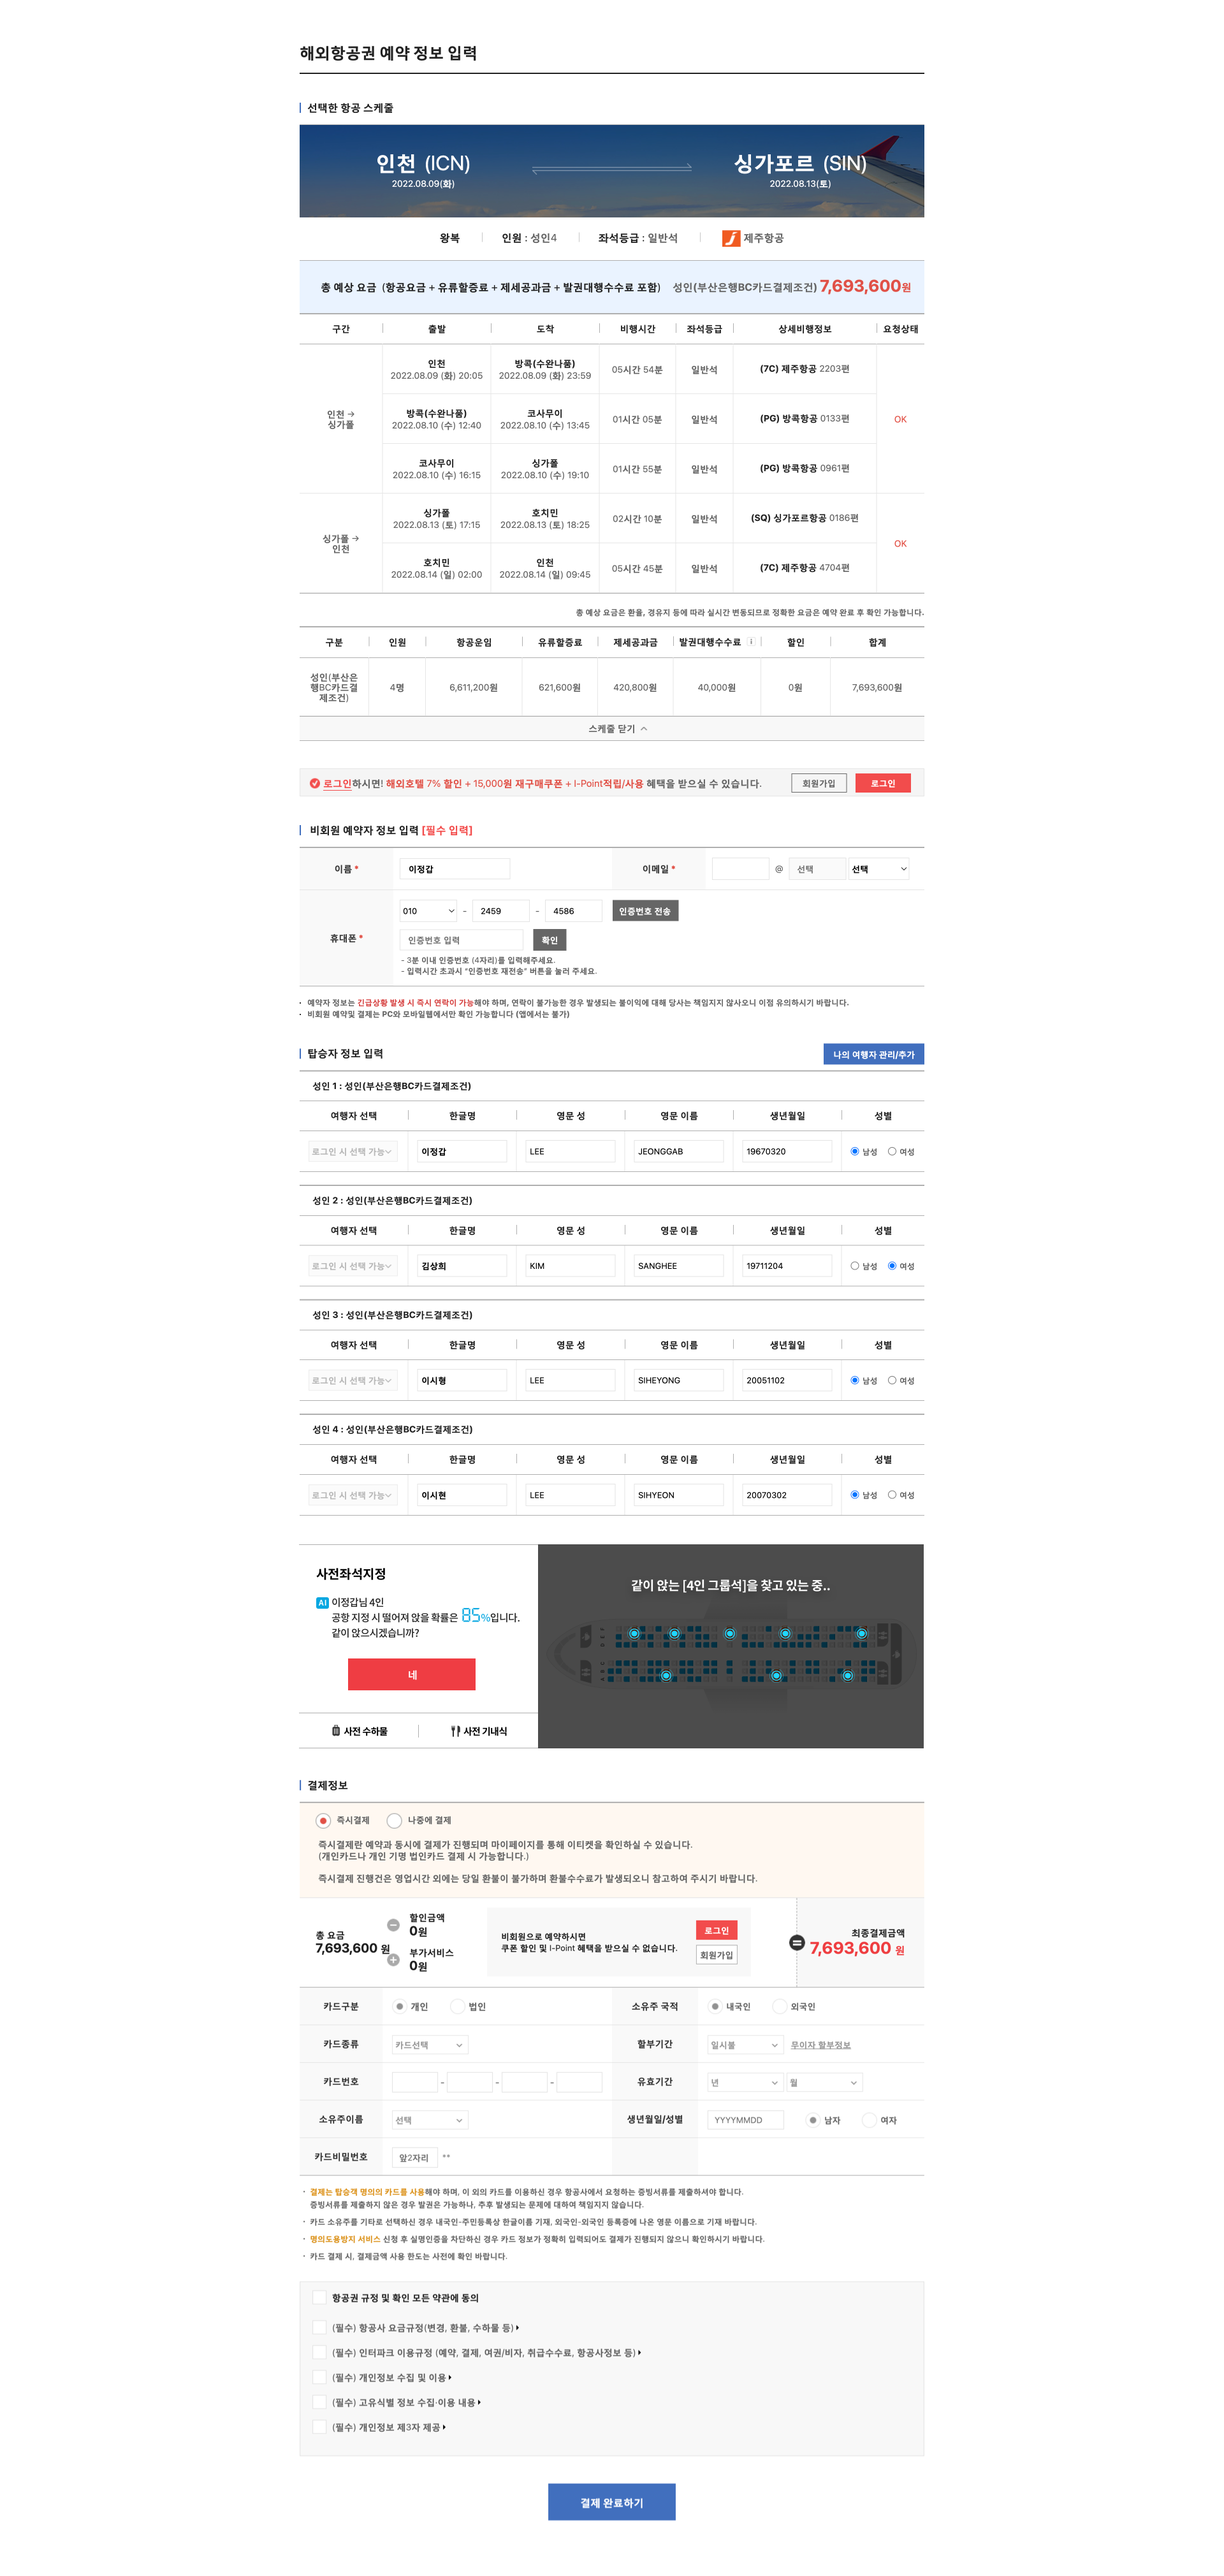
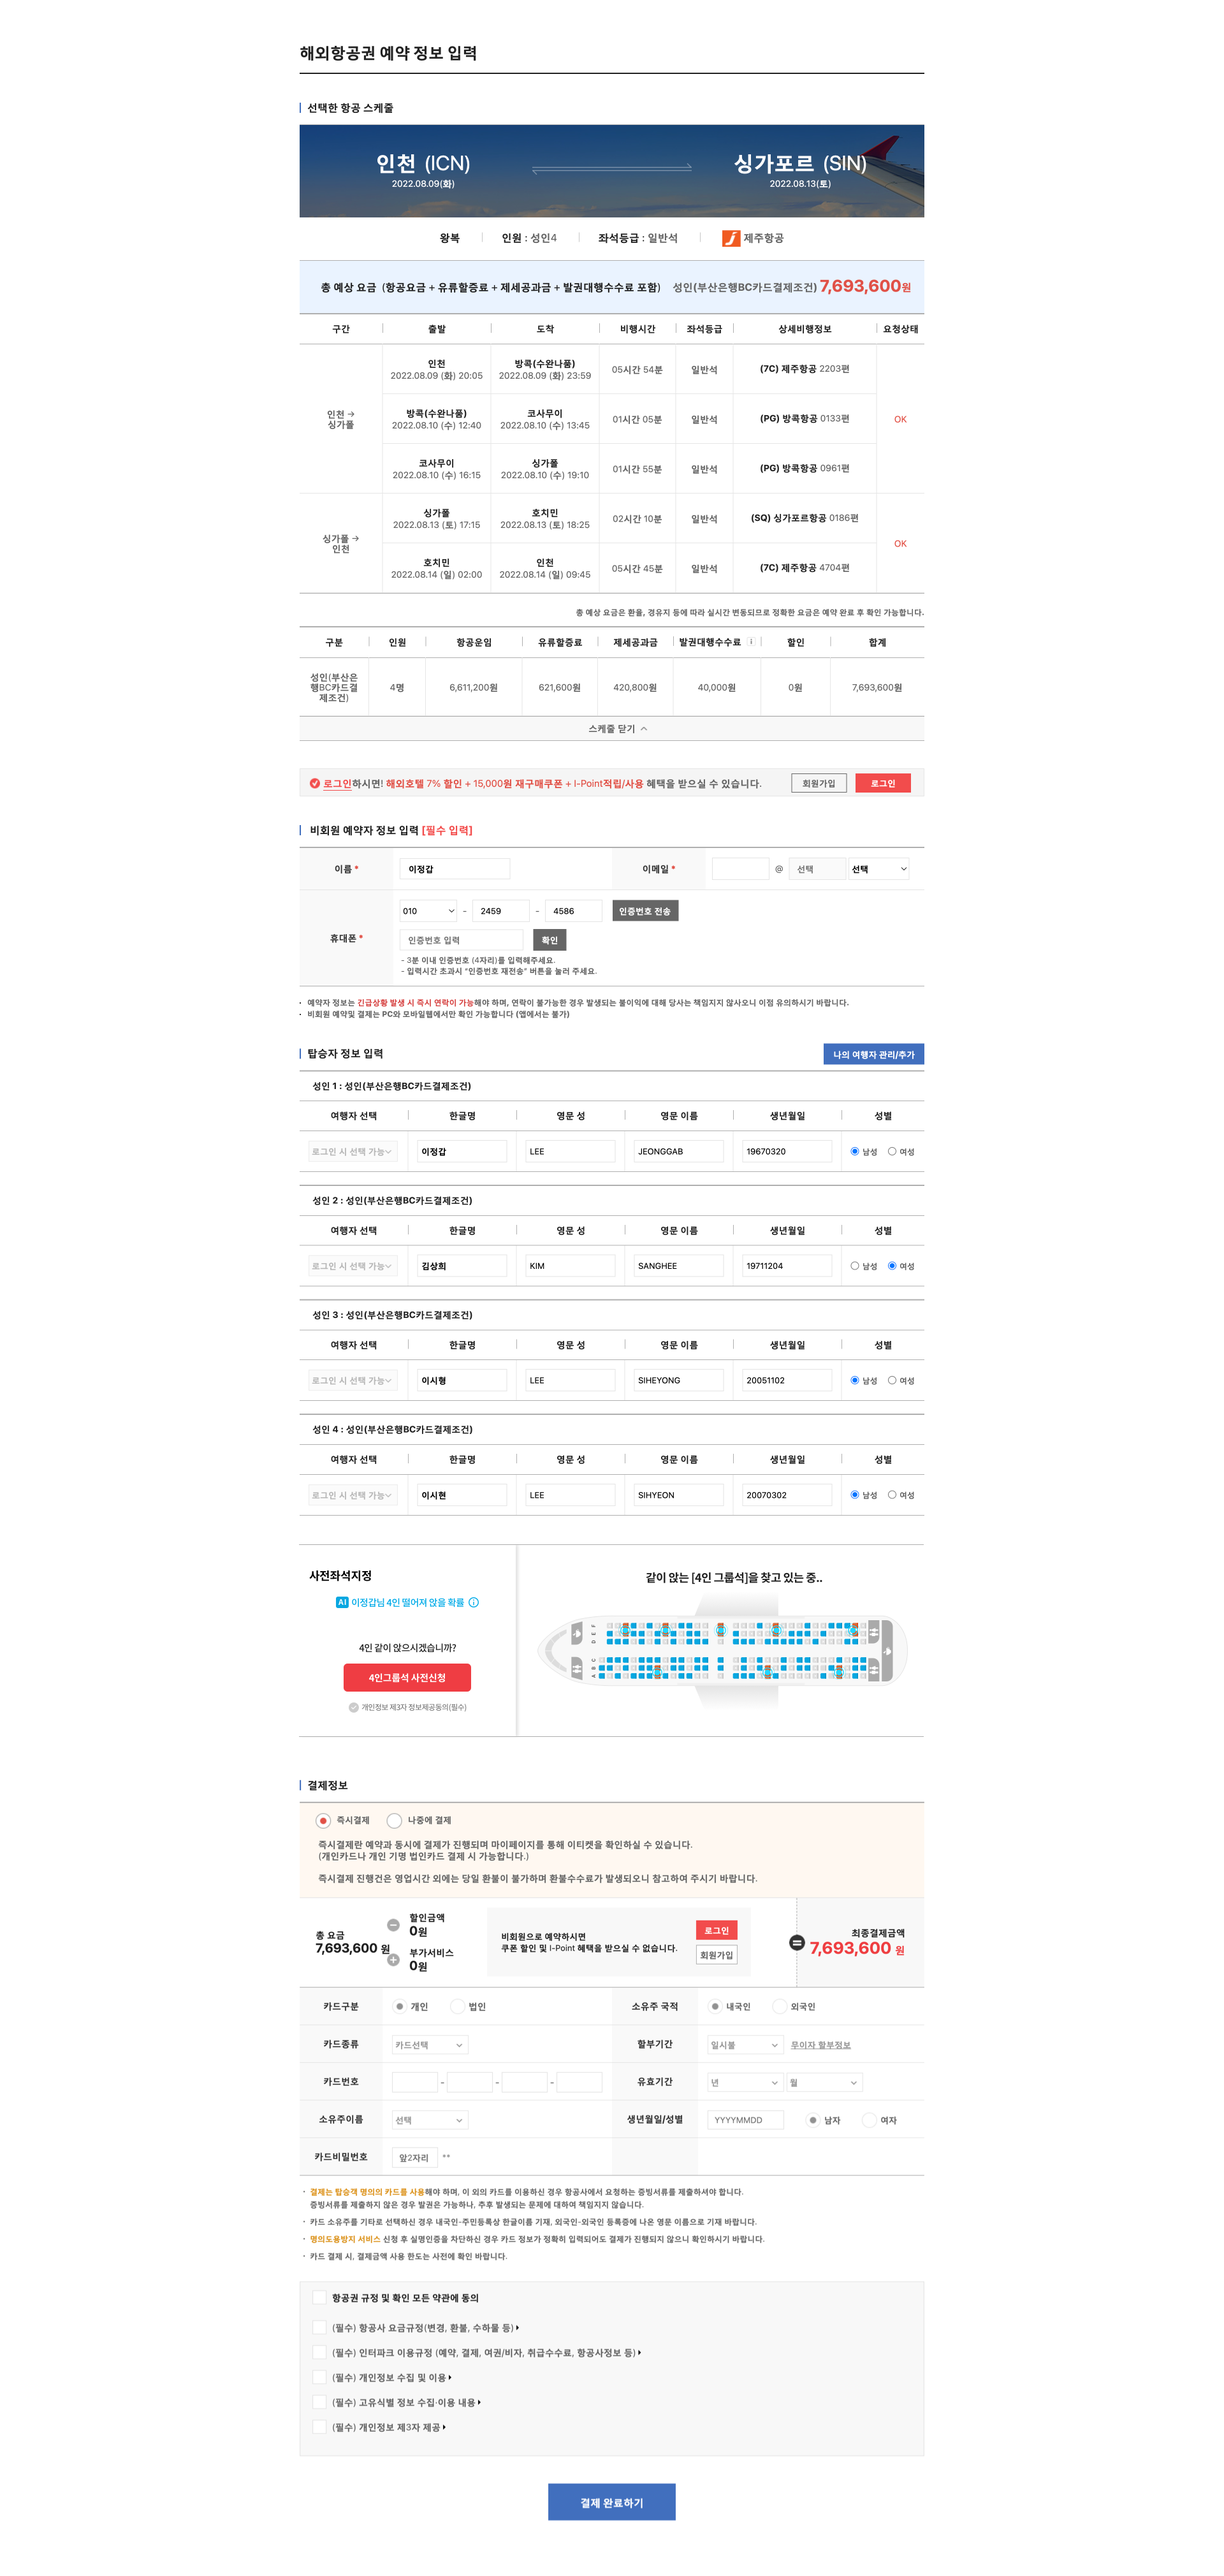
[ALPHA PC] 특허 ppt

Changed region(s): [[0.4375, 0.5926, 0.7812, 0.6861], [0.25, 0.5926, 0.4062, 0.6861]]

diff --git a/alphaseat/pc/resource/css/contents.css b/alphaseat/pc/resource/css/contents.css
@@ -22662,29 +22662,29 @@ margin-right: 11px;
 	display: block;
 }
 
-
-.alphaseat_img .abcd1 .st1{
-  position: absolute;
-  width: 200px;
-  height: 100px;
-  opacity: 0.5;
-  top: 18%;
-  left: 73%;
+.move_bar_img2{
+	position: absolute;
+	background: url("../img/common/hd_move_01.gif") no-repeat center / 170px 22px;
+	width: 170px;
+	height: 22px;
+	top: 63.1%;
+	left: 33%;
+	z-index: 2;
+	transform: translate(-50%, -50%);
 }
 
-.alphaseat_img .abcd1 .st2{
-  position: absolute;
-  width: 200px;
-  height: 100px;
-  opacity: 0.5;
-  top: 55%;
-  left: 67%;
+
+@media (max-width: 1200px) {
+
+	.move_bar_img2{
+    background: url("../img/common/hd_move_01.gif") no-repeat center / 140px 18px;
+  }
+  
 }
-.alphaseat_img .abcd1 .st3{
-  position: absolute;
-  width: 250px;
-  height: 100px;
-  opacity: 0.5;
-  top: 64%;
-  left: 27%;
+@media (max-width: 900px) {
+
+	.move_bar_img2{
+    background: url("../img/common/hd_move_01.gif") no-repeat center / 110px 14px;
+  }
+  
 }

diff --git a/alphaseat/pc/html/index_v3.html b/alphaseat/pc/html/index_v3.html
@@ -21,8 +21,9 @@
 <body>
 	<div class="alphaseat_img">
 		<div class="abcd1">
-			<a href="https://dev-ags-web-pc.ags-aws.com/ags/web/dv/pc/alphaseat/json/temp" class="st3"></a>			
-			<img id="img" src="../resource/img/common/PC_pre 03@1x.png">
+            <div class="move_bar_img2"></div>
+			<a href="https://dev-ags-web-pc.ags-aws.com/ags/web/dv/pc/alphaseat/json/temp" >		
+			<img id="img" src="../resource/img/common/PC_pre 03@1x.png"></a>	
 		</div>
 	</div>
 

diff --git a/alphaseat/pc/html/index_v1.html b/alphaseat/pc/html/index_v1.html
@@ -21,8 +21,8 @@
 <body>
 	<div class="alphaseat_img">
 		<div class="abcd1">
-			<a href="index_v2.html" class="st1"></a>			
-			<img id="img" src="../resource/img/common/PC_pre 01@1x.png">
+			<a href="index_v2.html" class="st1">			
+			<img id="img" src="../resource/img/common/PC_pre 01@1x.png"></a>
 		</div>
 	</div>
 

diff --git a/alphaseat/pc/html/index_v2.html b/alphaseat/pc/html/index_v2.html
@@ -21,8 +21,8 @@
 <body>
 	<div class="alphaseat_img">
 		<div class="abcd1">
-			<a href="index_v3.html" class="st2"></a>			
-			<img id="img" src="../resource/img/common/PC_pre 02@1x.png">
+			<a href="index_v3.html" >			
+			<img id="img" src="../resource/img/common/PC_pre 02@1x.png"></a>
 		</div>
 	</div>
 
